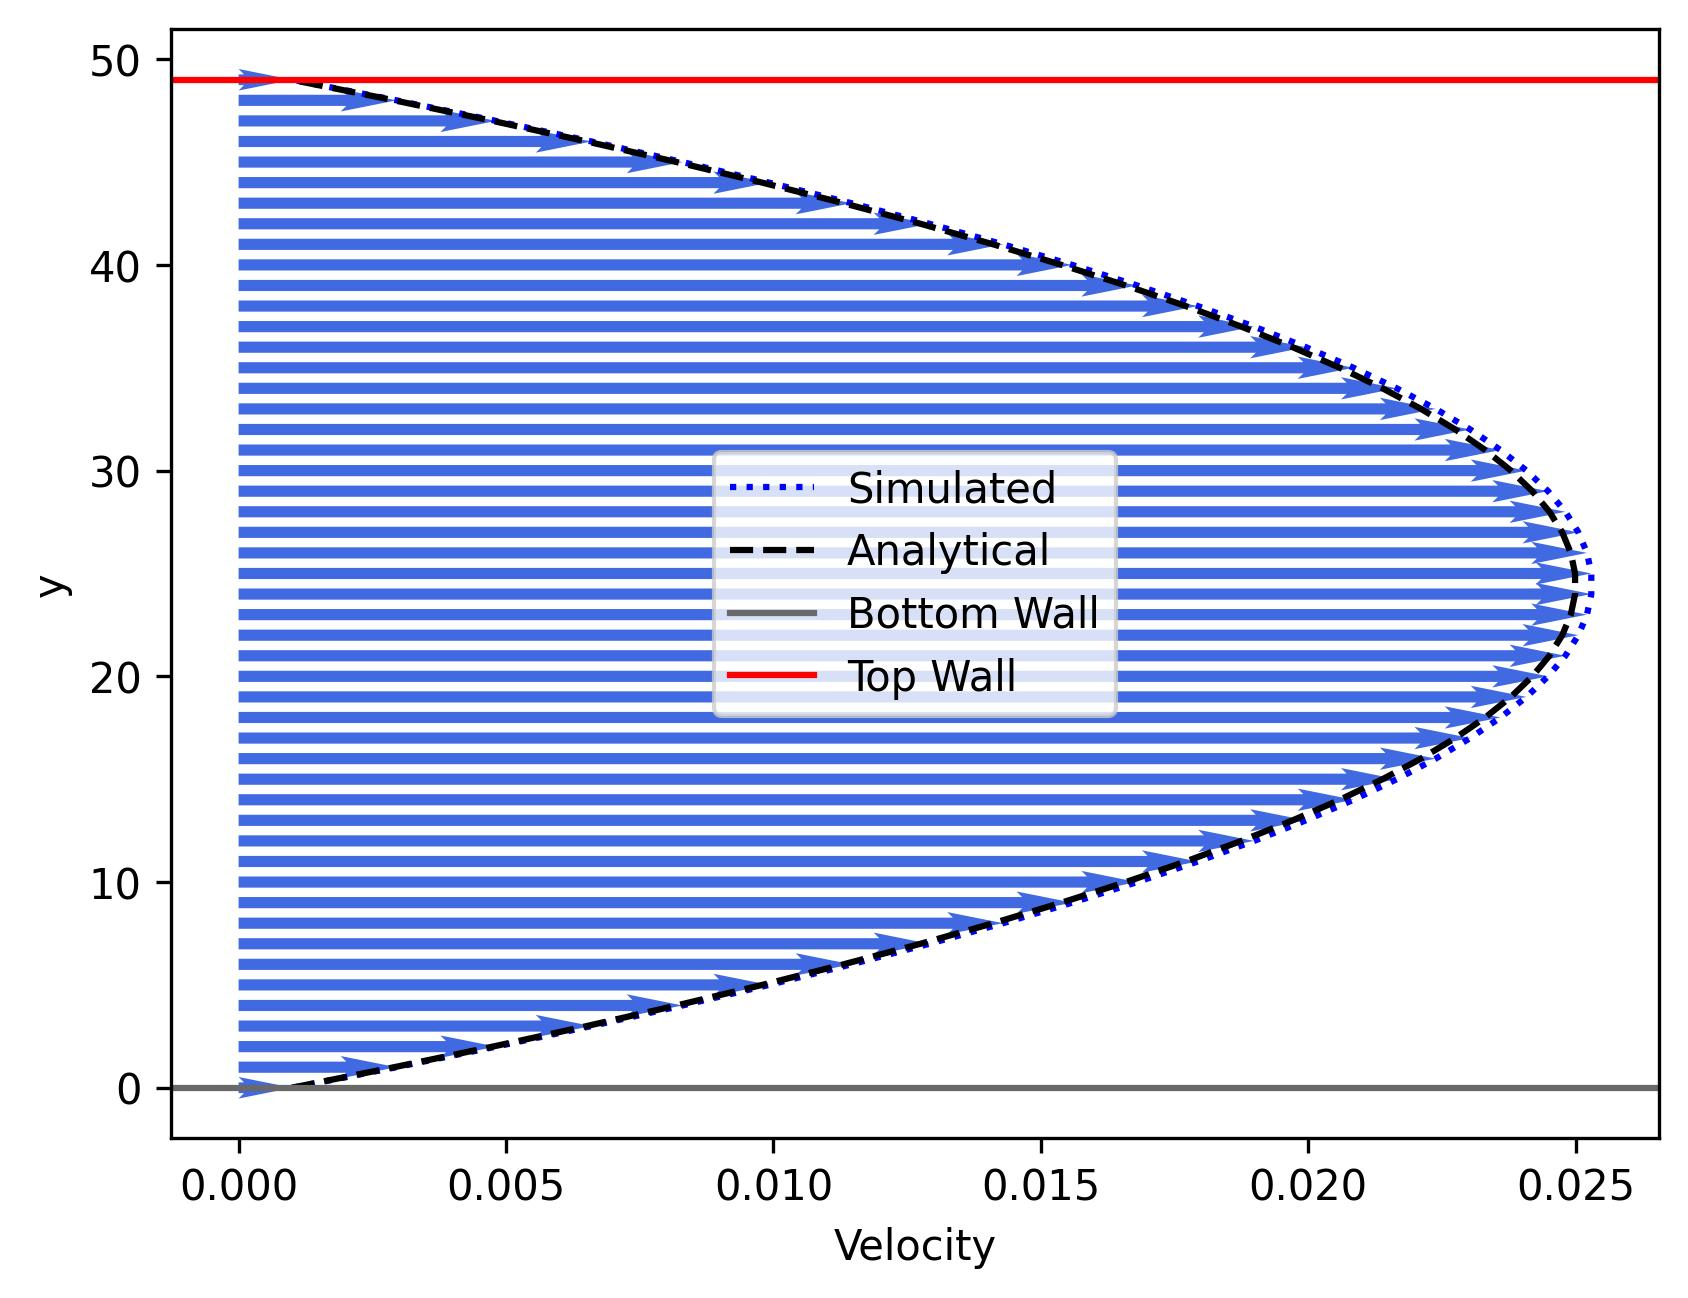
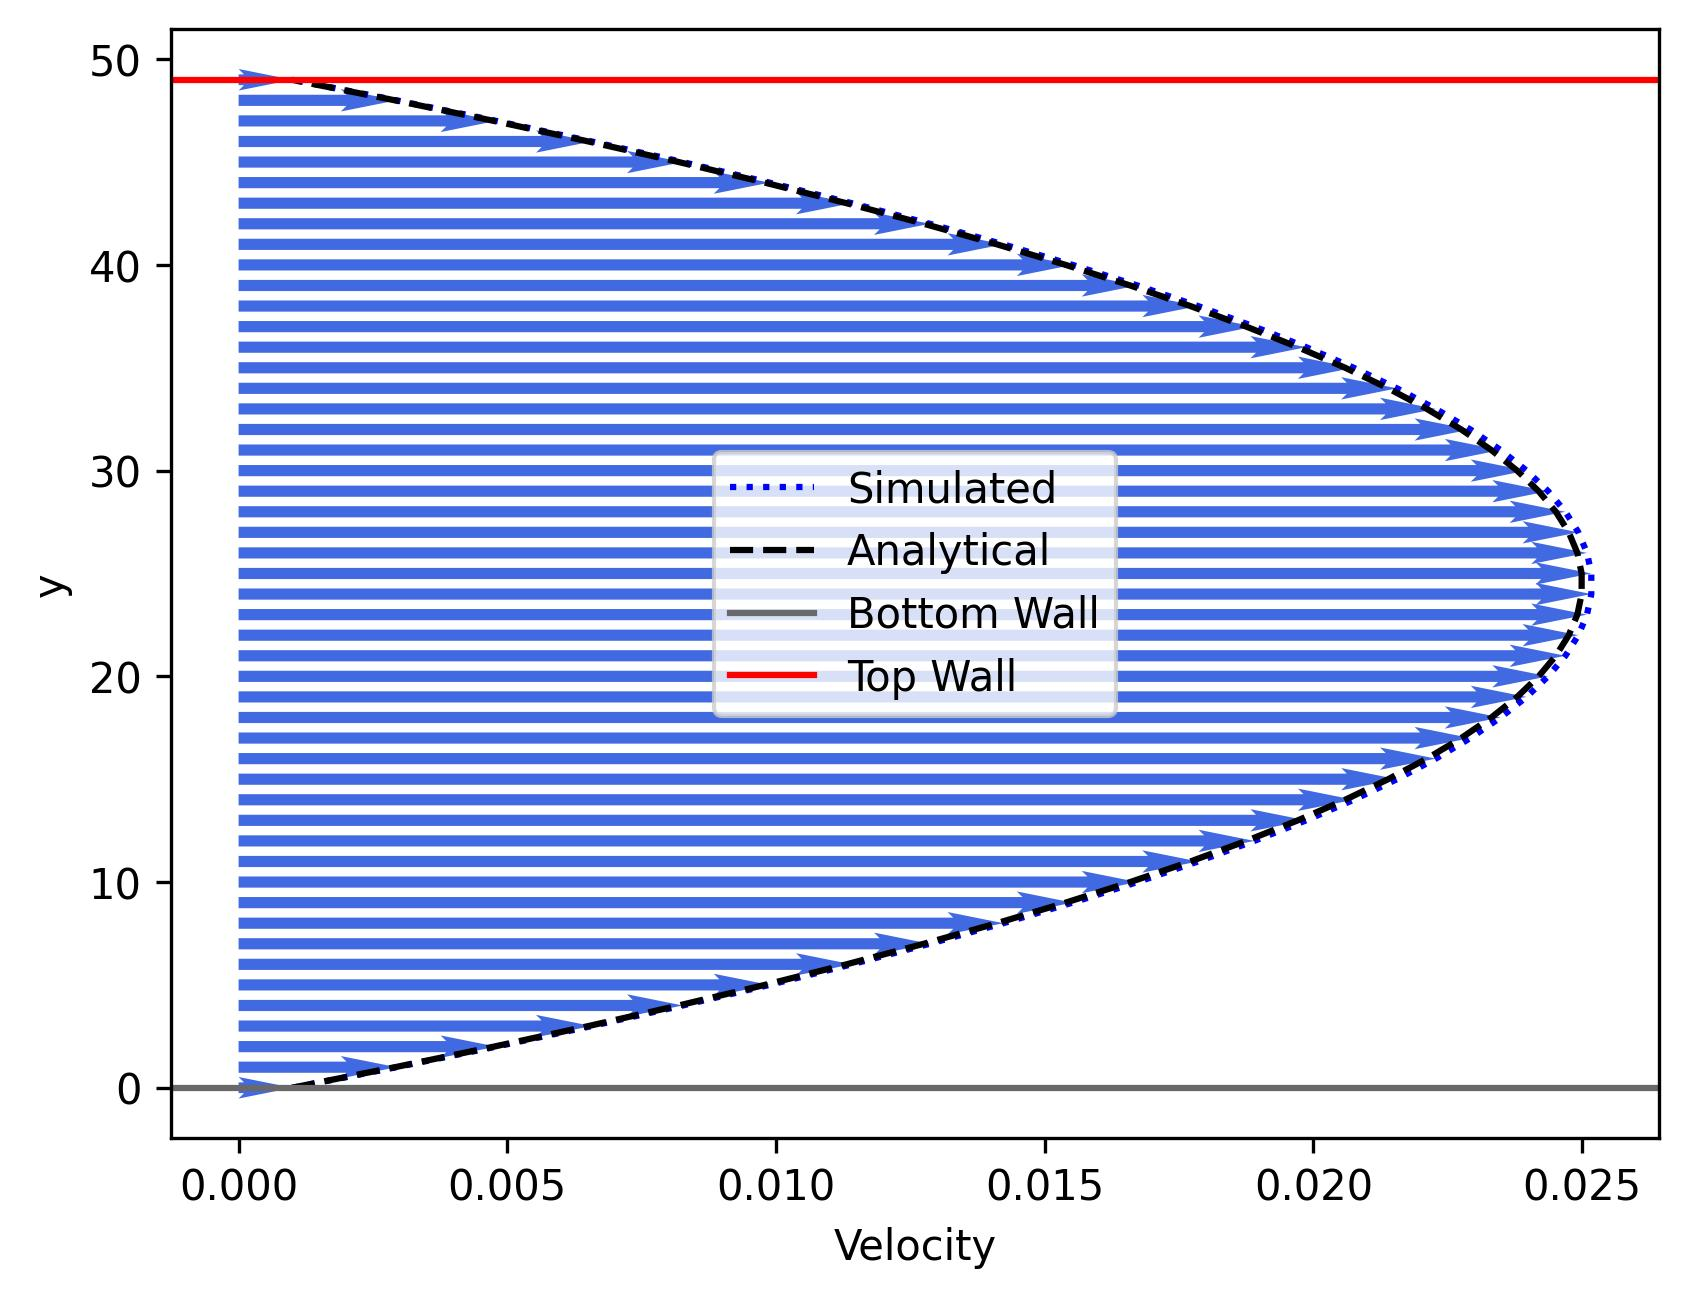
Final Changes

diff --git a/src/milestones/milestone_5.py b/src/milestones/milestone_5.py
@@ -61,11 +61,11 @@ def main(x, y, omega, num_time_steps, epsilon, density_init=1, test=False):
 
 
 if __name__ == '__main__':
-    x = 100
+    x = 50
     y = 50
     epsilon = 0.001  # Amplitude of the perturbation
     omega = 1  # Relaxation parameter
-    num_time_steps = 8000
+    num_time_steps = 7000
     density_init = 1
 
     final_velocity = main(x=x, y=y, num_time_steps=num_time_steps, omega=omega, epsilon=epsilon,
